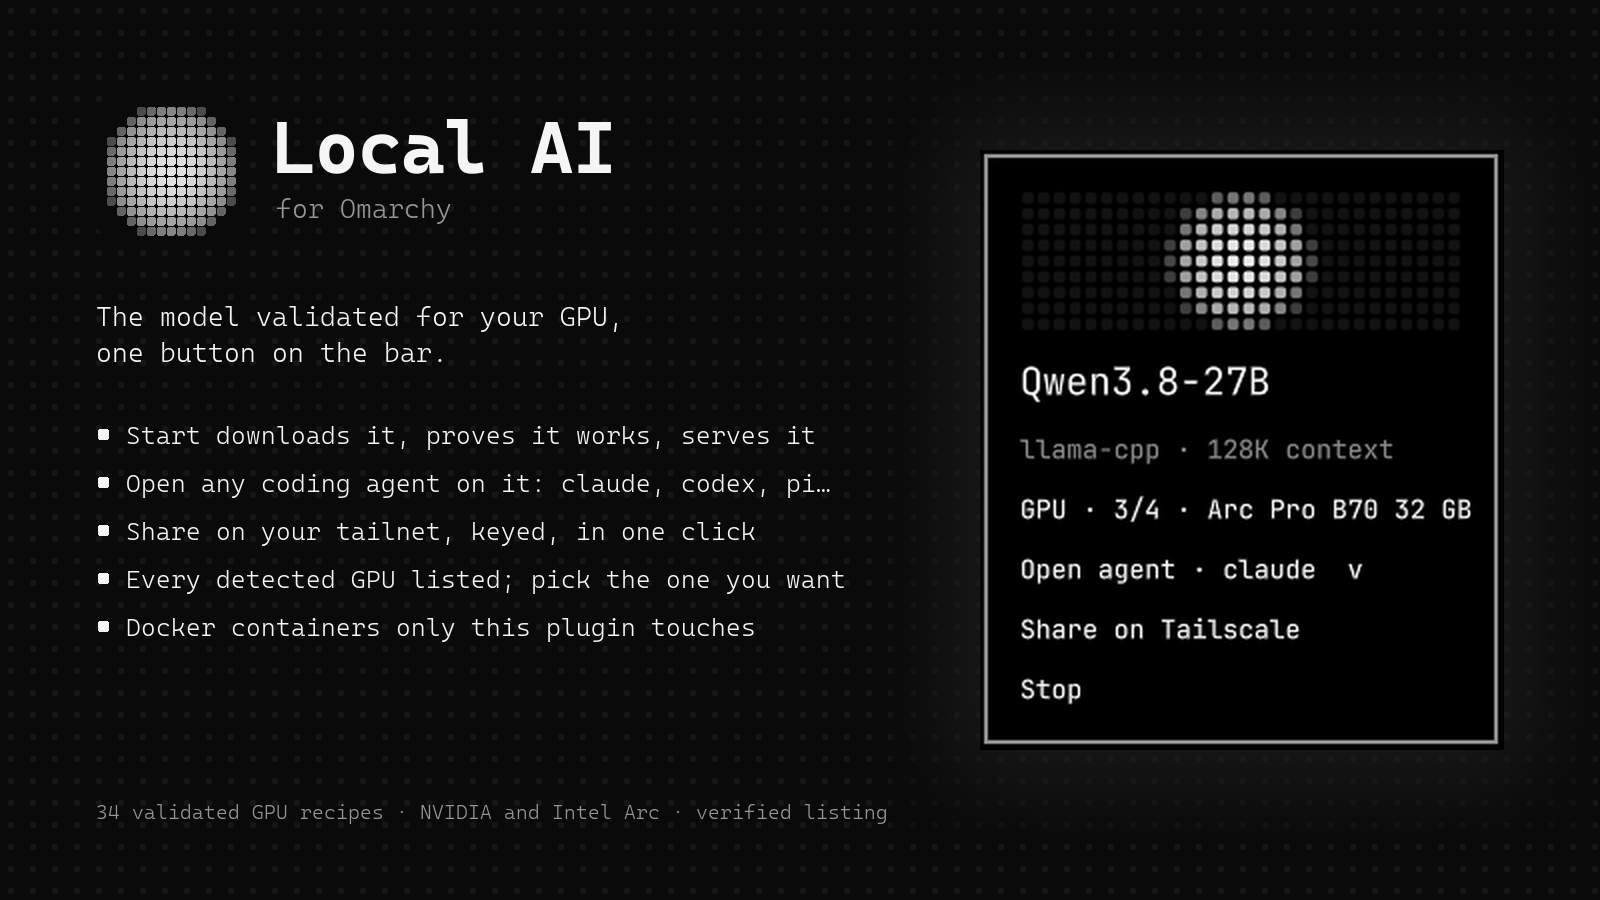
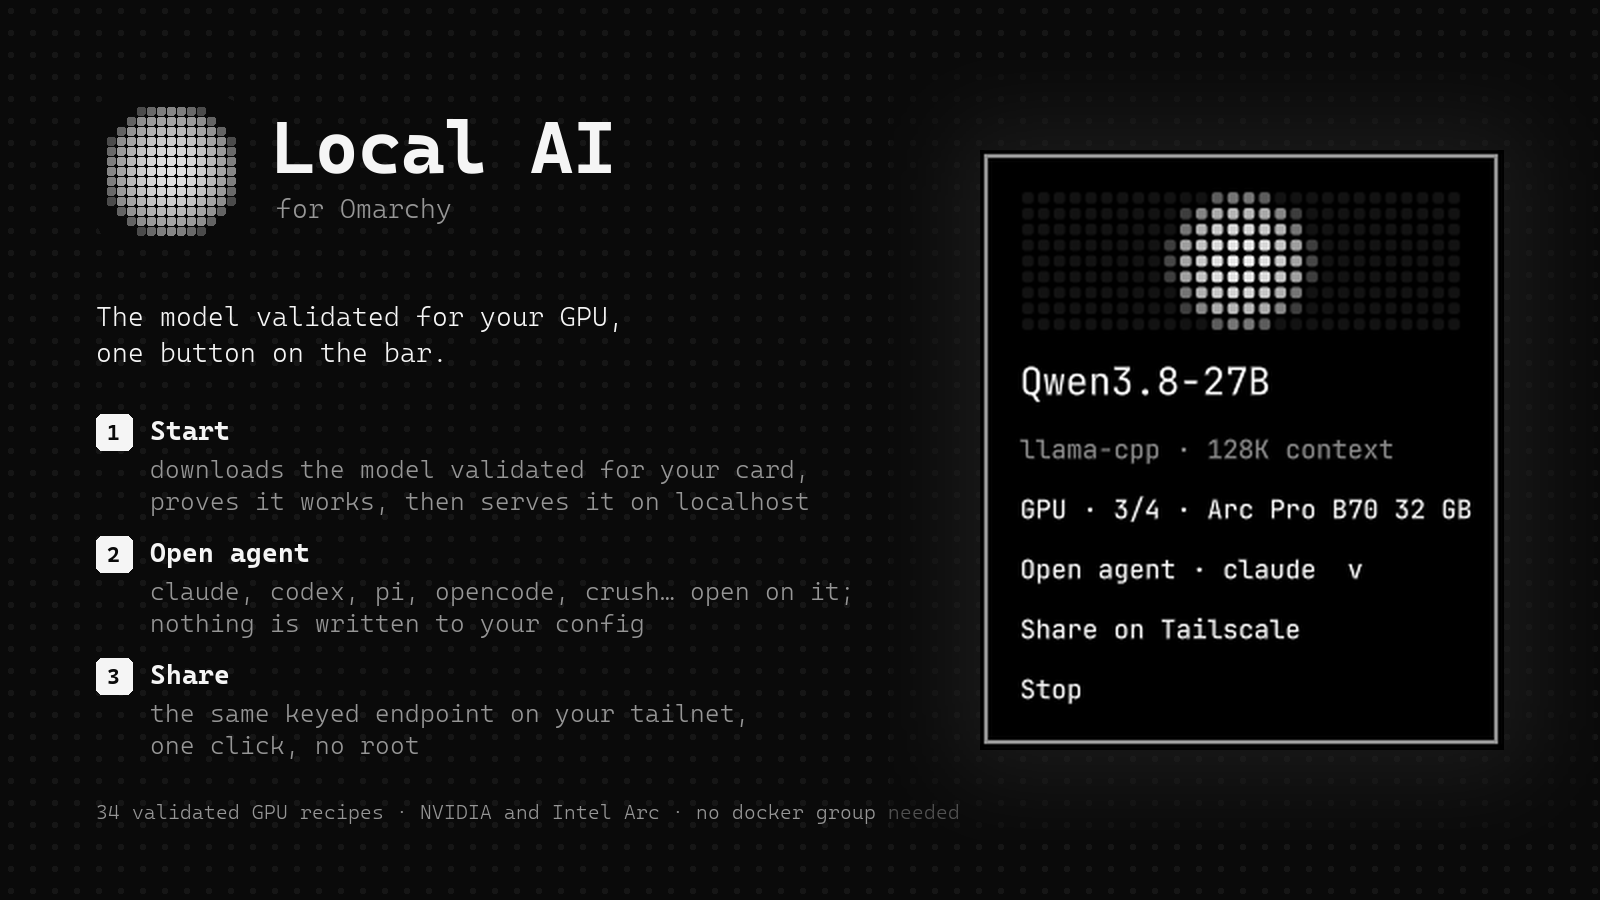
Preview: how it works in three steps (Start, Open agent, Share) instead of a feature list

Changed region(s): [[0.0625, 0.4356, 0.5312, 0.84], [0.4375, 0.9022, 0.5625, 0.9333]]

diff --git a/demo/brand.py b/demo/brand.py
@@ -92,19 +92,26 @@ d.text((272, 104), "Local AI", font=f_title, fill=INK)
 d.text((276, 192), "for Omarchy", font=f_sub, fill=DIM)
 
 d.text((96, 300), "The model validated for your GPU,\none button on the bar.", font=f_sub, fill=INK, spacing=10)
-feats = [
-    "Start downloads it, proves it works, serves it",
-    "Open any coding agent on it: claude, codex, pi…",
-    "Share on your tailnet, keyed, in one click",
-    "Every detected GPU listed; pick the one you want",
-    "Docker containers only this plugin touches",
+# how it works, in three steps: what the person does, what happens
+steps = [
+    ("Start",       "downloads the model validated for your card,",
+                    "proves it works, then serves it on localhost"),
+    ("Open agent",  "claude, codex, pi, opencode, crush… open on it;",
+                    "nothing is written to your config"),
+    ("Share",       "the same keyed endpoint on your tailnet,",
+                    "one click, no root"),
 ]
-y = 420
-for t in feats:
-    d.rounded_rectangle([98, y + 9, 108, y + 19], radius=2, fill=INK)
-    d.text((126, y), t, font=f_feat, fill=INK)
-    y += 48
-d.text((96, 800), "34 validated GPU recipes · NVIDIA and Intel Arc · verified listing", font=f_small, fill=DIM)
+f_step = ImageFont.truetype(MONO_B, 27)
+f_num = ImageFont.truetype(MONO_B, 22)
+y = 412
+for i, (head, l1, l2) in enumerate(steps, 1):
+    d.rounded_rectangle([96, y + 2, 132, y + 38], radius=6, fill=INK)
+    d.text((114, y + 20), str(i), font=f_num, fill=BG, anchor="mm")
+    d.text((150, y + 2), head, font=f_step, fill=INK)
+    d.text((150, y + 42), l1, font=f_feat, fill=DIM)
+    d.text((150, y + 74), l2, font=f_feat, fill=DIM)
+    y += 122
+d.text((96, 800), "34 validated GPU recipes · NVIDIA and Intel Arc · no docker group needed", font=f_small, fill=DIM)
 
 # right: the card, scaled, with a soft glow behind it
 cw, ch = card.size
